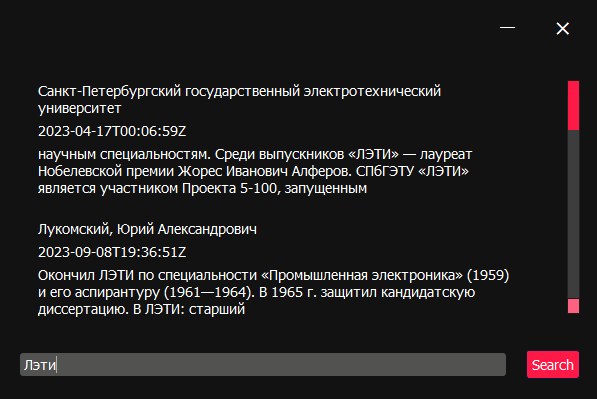
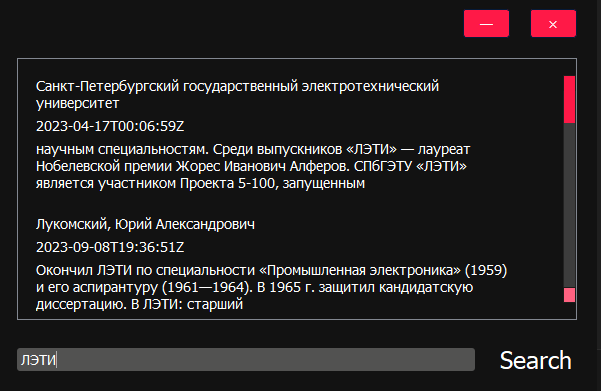
total refactoring

diff --git a/WikiParser.py b/WikiParser.py
@@ -1,15 +1,24 @@
 from PyQt5.QtWidgets import *
 from PyQt5.QtNetwork import QNetworkAccessManager, QNetworkRequest, QNetworkReply
-from PyQt5.QtCore import QSize,Qt
+from PyQt5.QtCore import QSize, Qt
 from PyQt5.QtGui import *
 
 import json
+import logging
 
 from ResponsesWidget import ResponsesContainerWidget, Response
 from UrlManager import UrlManager
 
+logging.basicConfig(
+    level=logging.DEBUG,
+    format='%(asctime)s - %(name)s - %(levelname)s - %(message)s',
+    datefmt='%Y-%m-%d %H:%M:%S'  # Define the format of the timestamp
+)
+
 
 class WikiParser(QMainWindow):
+    _WINDOW_SIZE = QSize(600, 400)                      # fixed, px
+
     def __init__(self):
         super().__init__()
 
@@ -17,13 +26,10 @@ class WikiParser(QMainWindow):
         self._exitBtn = QPushButton('×')
         self._minimizeBtn = QPushButton('—')
         self._searchLine = QLineEdit()
-        self._searchLine.setFocus()
         self._searchBtn = QPushButton("Search")
 
         self._resultsArea = QScrollArea()
-        
-
-        self._srw = ResponsesContainerWidget()
+        self._responcesContainer = ResponsesContainerWidget()
 
         self._searchBtn.clicked.connect(self._makeResponce)
         self._exitBtn.clicked.connect(lambda: QApplication.quit())
@@ -32,17 +38,35 @@ class WikiParser(QMainWindow):
 
         self._initUI()
 
-    def _initUI(self):
-        self.setWindowTitle("WikiFastSearch")
-        self.setFixedSize(600, 400)
+    def keyPressEvent(self, event):                     # override
+        if event.key() == Qt.Key_Escape:
+            logging.info("esc pressed, app quit")
+            QApplication.quit()
 
+        # drog n drop window functionality
+    def mousePressEvent(self, event):                   # override
+        if event.button() == Qt.LeftButton and self.centralWidget().rect().contains(event.pos()):
+            self.dragging = True
+            self.offset = event.pos()
+
+    def mouseMoveEvent(self, event):                    # override
+        if event.buttons() == Qt.LeftButton and self.dragging:
+            new_pos = self.mapToGlobal(event.pos() - self.offset)
+            self.move(new_pos)
+
+    def mouseReleaseEvent(self, event):                 # override
+        self.dragging = False
+
+    def _initUI(self):
+        ''' Добавляет элементы в layout; стилизует то, что не стилезуется в .qss '''
+
+        self.setWindowTitle("WikiFastSearch")
+        self.setFixedSize(WikiParser._WINDOW_SIZE)
+
+        self._searchBtn.setProperty("class", "searchBtn")
+        self._exitBtn.setProperty("class", "navBtn")
+        self._minimizeBtn.setProperty("class", "navBtn")
         self._resultsArea.setHorizontalScrollBarPolicy(Qt.ScrollBarAlwaysOff)
-        self._resultsArea.setFrameShape(QScrollArea.NoFrame)
-        self._exitBtn.setFixedSize(QSize(35,35))
-        self._exitBtn.setStyleSheet("background-color:#121212;font-size:24px; border:none;")
-        self._minimizeBtn.setFixedSize(QSize(35,35))
-        self._minimizeBtn.setStyleSheet("background-color:#121212;font-size:16px; border:none;")
-        self.setStyleSheet("font-size:14px")
 
         hlayout1 = QHBoxLayout()
         hlayout1.addWidget(self._errLabel)
@@ -53,6 +77,7 @@ class WikiParser(QMainWindow):
         hlayout2.addWidget(self._searchLine)
         hlayout2.addWidget(self._searchBtn)
         vlayout = QVBoxLayout()
+        vlayout.setProperty("class", "mainLayout")
         vlayout.addLayout(hlayout2)
         vlayout.addWidget(self._resultsArea)
         vlayout.addLayout(hlayout1)
@@ -65,58 +90,57 @@ class WikiParser(QMainWindow):
         self.setCentralWidget(widget)
         self.setWindowFlags(self.windowFlags() | Qt.FramelessWindowHint)
 
-
     def _makeResponce(self):
-        self._srw.clear()
+        ''' отправляет get запрос на wiki, запрос формирует UrlManager '''
+
+        self._responcesContainer.clear()
         self._errLabel.clear()
+
         if (self._searchLine.text() == ""):
-            self._errLabel.setText("Empty responce")
+            self._errLabel.setText("Empty request")
 
         request = QNetworkRequest(
-            UrlManager.getSearchResponceUrl(self._searchLine.text()))
+            UrlManager.getSearchRequstUrl(self._searchLine.text()))
+
+        logging.info(f"creating request: \
+                {UrlManager.getSearchRequstUrl(self._searchLine.text())}")
 
         self.nam = QNetworkAccessManager()
         self.nam.finished.connect(self._handleResponse)
         self.nam.get(request)
 
+        # TODO: add connection ckecking
+        # if self.nam.networkAccessible != QNetworkAccessManager.Accessible:
+        #     self._errLabel.setText("no connection")
+
     def _handleResponse(self, reply):
+        ''' обрабатывает ответ, передает в self._parseJson '''
+
         if reply.error() == QNetworkReply.NoError:
             data = reply.readAll()
             self._parseJson(data.data())
         else:
-            self._errLabel.setText("Error: " + reply.errorString())
+            self._errLabel.setText("Sorry, error on our side")
+            logging.error("Error: " + reply.errorString())
 
     def _parseJson(self, data):
+        ''' извлекает из данных информацию для _responcesContainer (QWidget) '''
+
         try:
             parsed_data = json.loads(data)
-            for response in parsed_data['query']['search']:
-                self._srw.addResult(Response(response['title'],
-                                                 response['timestamp'],
-                                                 response['snippet'],
-                                                 UrlManager.createPageUrl(response['pageid'])))
+            logging.info(
+                f"response received, wiki json has {len(parsed_data['query']['search'])} items")
+
+            for jsonData in parsed_data['query']['search']:
+                self._responcesContainer.addResponse(Response(jsonData['title'],
+                                                              jsonData['timestamp'],
+                                                              jsonData['snippet'],
+                                                              UrlManager.createPageUrl(jsonData['pageid'])))
             if not parsed_data['query']['search']:
                 self._errLabel.setText("Sorry, nothing was found")
             else:
-                self._resultsArea.setWidget(self._srw)
+                self._resultsArea.setWidget(self._responcesContainer)
 
         except Exception as e:
-            self._errLabel.setText(f"Error parsing JSON: {e}")
-
-    def keyPressEvent(self, event):
-        if event.key() == Qt.Key_Escape:
-            QApplication.quit()
-
-# drog n drop window functionality
-    def mousePressEvent(self, event):
-        if event.button() == Qt.LeftButton and self.centralWidget().rect().contains(event.pos()):
-            self.dragging = True
-            self.offset = event.pos()
-
-    def mouseMoveEvent(self, event):
-        if event.buttons() == Qt.LeftButton and self.dragging:
-            new_pos = self.mapToGlobal(event.pos() - self.offset)
-            self.move(new_pos)
-
-    def mouseReleaseEvent(self, event):
-        self.dragging = False
-
+            self._errLabel.setText(f"Sorry, error on our side")
+            logging.error(f"Error parsing json {e}")

diff --git a/ResponsesWidget.py b/ResponsesWidget.py
@@ -5,6 +5,8 @@ import webbrowser
 
 
 class Response(QWidget):
+    _WIDGET_WIDTH = 500
+
     def __init__(self, title: str, date: str, snippet: str, link: str):
         super().__init__()
 
@@ -14,23 +16,26 @@ class Response(QWidget):
         self._snippet.setWordWrap(True)
         self._link = link
 
-        self.initUI()
+        self._initUI()
 
-        self.setFixedWidth(500)
+    def _initUI(self):
+        ''' Добавляет элементы в layout; стилизует то, что не стилезуется в .qss '''
+        self.setFixedWidth(Response._WIDGET_WIDTH)
 
-    def initUI(self):
         layout = QVBoxLayout()
         layout.addWidget(self._title)
         layout.addWidget(self._date)
         layout.addWidget(self._snippet)
 
-        self._title.setStyleSheet("font-size:14px")
+        self._title.setProperty("class", "title")
         self._snippet.setWordWrap(True)
         self._title.setWordWrap(True)
 
         self.setLayout(layout)
 
     def mousePressEvent(self, event) -> None:
+        ''' Открывает ссылки в браузере '''
+
         if event.button() == Qt.LeftButton:
             webbrowser.open(self._link)
 
@@ -42,10 +47,14 @@ class ResponsesContainerWidget(QWidget):
         self.layout = QVBoxLayout()
         self.setLayout(self.layout)
 
-    def addResult(self, res: Response):
+    def addResponse(self, res: Response):
+        ''' Add responses from layout '''
+
         self.layout.addWidget(res)
 
     def clear(self):
+        ''' Remove responses from layout '''
+
         if self.layout is not None:
             while self.layout.count():
                 item = self.layout.takeAt(0)

diff --git a/UrlManager.py b/UrlManager.py
@@ -1,11 +1,12 @@
 from PyQt5.QtCore import QUrl, QUrlQuery
 
+
 class UrlManager:
-    _baseUrl = "https://ru.wikipedia.org/w/"
+    _BASE_URL = "https://ru.wikipedia.org/w/"
 
     @staticmethod
     def createPageUrl(pageid: int) -> str:
-        url = QUrl(UrlManager._baseUrl + "index.php")
+        url = QUrl(UrlManager._BASE_URL + "index.php")
 
         query = QUrlQuery()
         query.addQueryItem('curid', str(pageid))
@@ -14,8 +15,8 @@ class UrlManager:
         return url.toString()
 
     @staticmethod
-    def getSearchResponceUrl(userInput: str) -> QUrl:
-        url = QUrl(UrlManager._baseUrl + "api.php")
+    def getSearchRequstUrl(userInput: str) -> QUrl:
+        url = QUrl(UrlManager._BASE_URL + "api.php")
         search = str(QUrl.toPercentEncoding(userInput), 'utf-8')
         params = {'action': 'query',
                   'list': 'search',

diff --git a/main.py b/main.py
@@ -2,6 +2,7 @@ from PyQt5.QtWidgets import QApplication
 from PyQt5.QtCore import QFile, QTextStream
 
 import sys
+import logging
 
 from WikiParser import WikiParser
 
@@ -9,14 +10,14 @@ from WikiParser import WikiParser
 if __name__ == "__main__":
     app = QApplication(sys.argv)
 
-    stylesheet_file = QFile("styles.qss")
-    if stylesheet_file.open(QFile.ReadOnly | QFile.Text):
-        stream = QTextStream(stylesheet_file)
+    stylesheetFile = QFile("styles.qss")
+    if stylesheetFile.open(QFile.ReadOnly | QFile.Text):
+        stream = QTextStream(stylesheetFile)
         stylesheet = stream.readAll()
         app.setStyleSheet(stylesheet)
-        stylesheet_file.close()
+        stylesheetFile.close()
     else:
-        print('nofile')
+        logging.error("stylesheet file read error")
     wp = WikiParser()
     wp.show()
 
